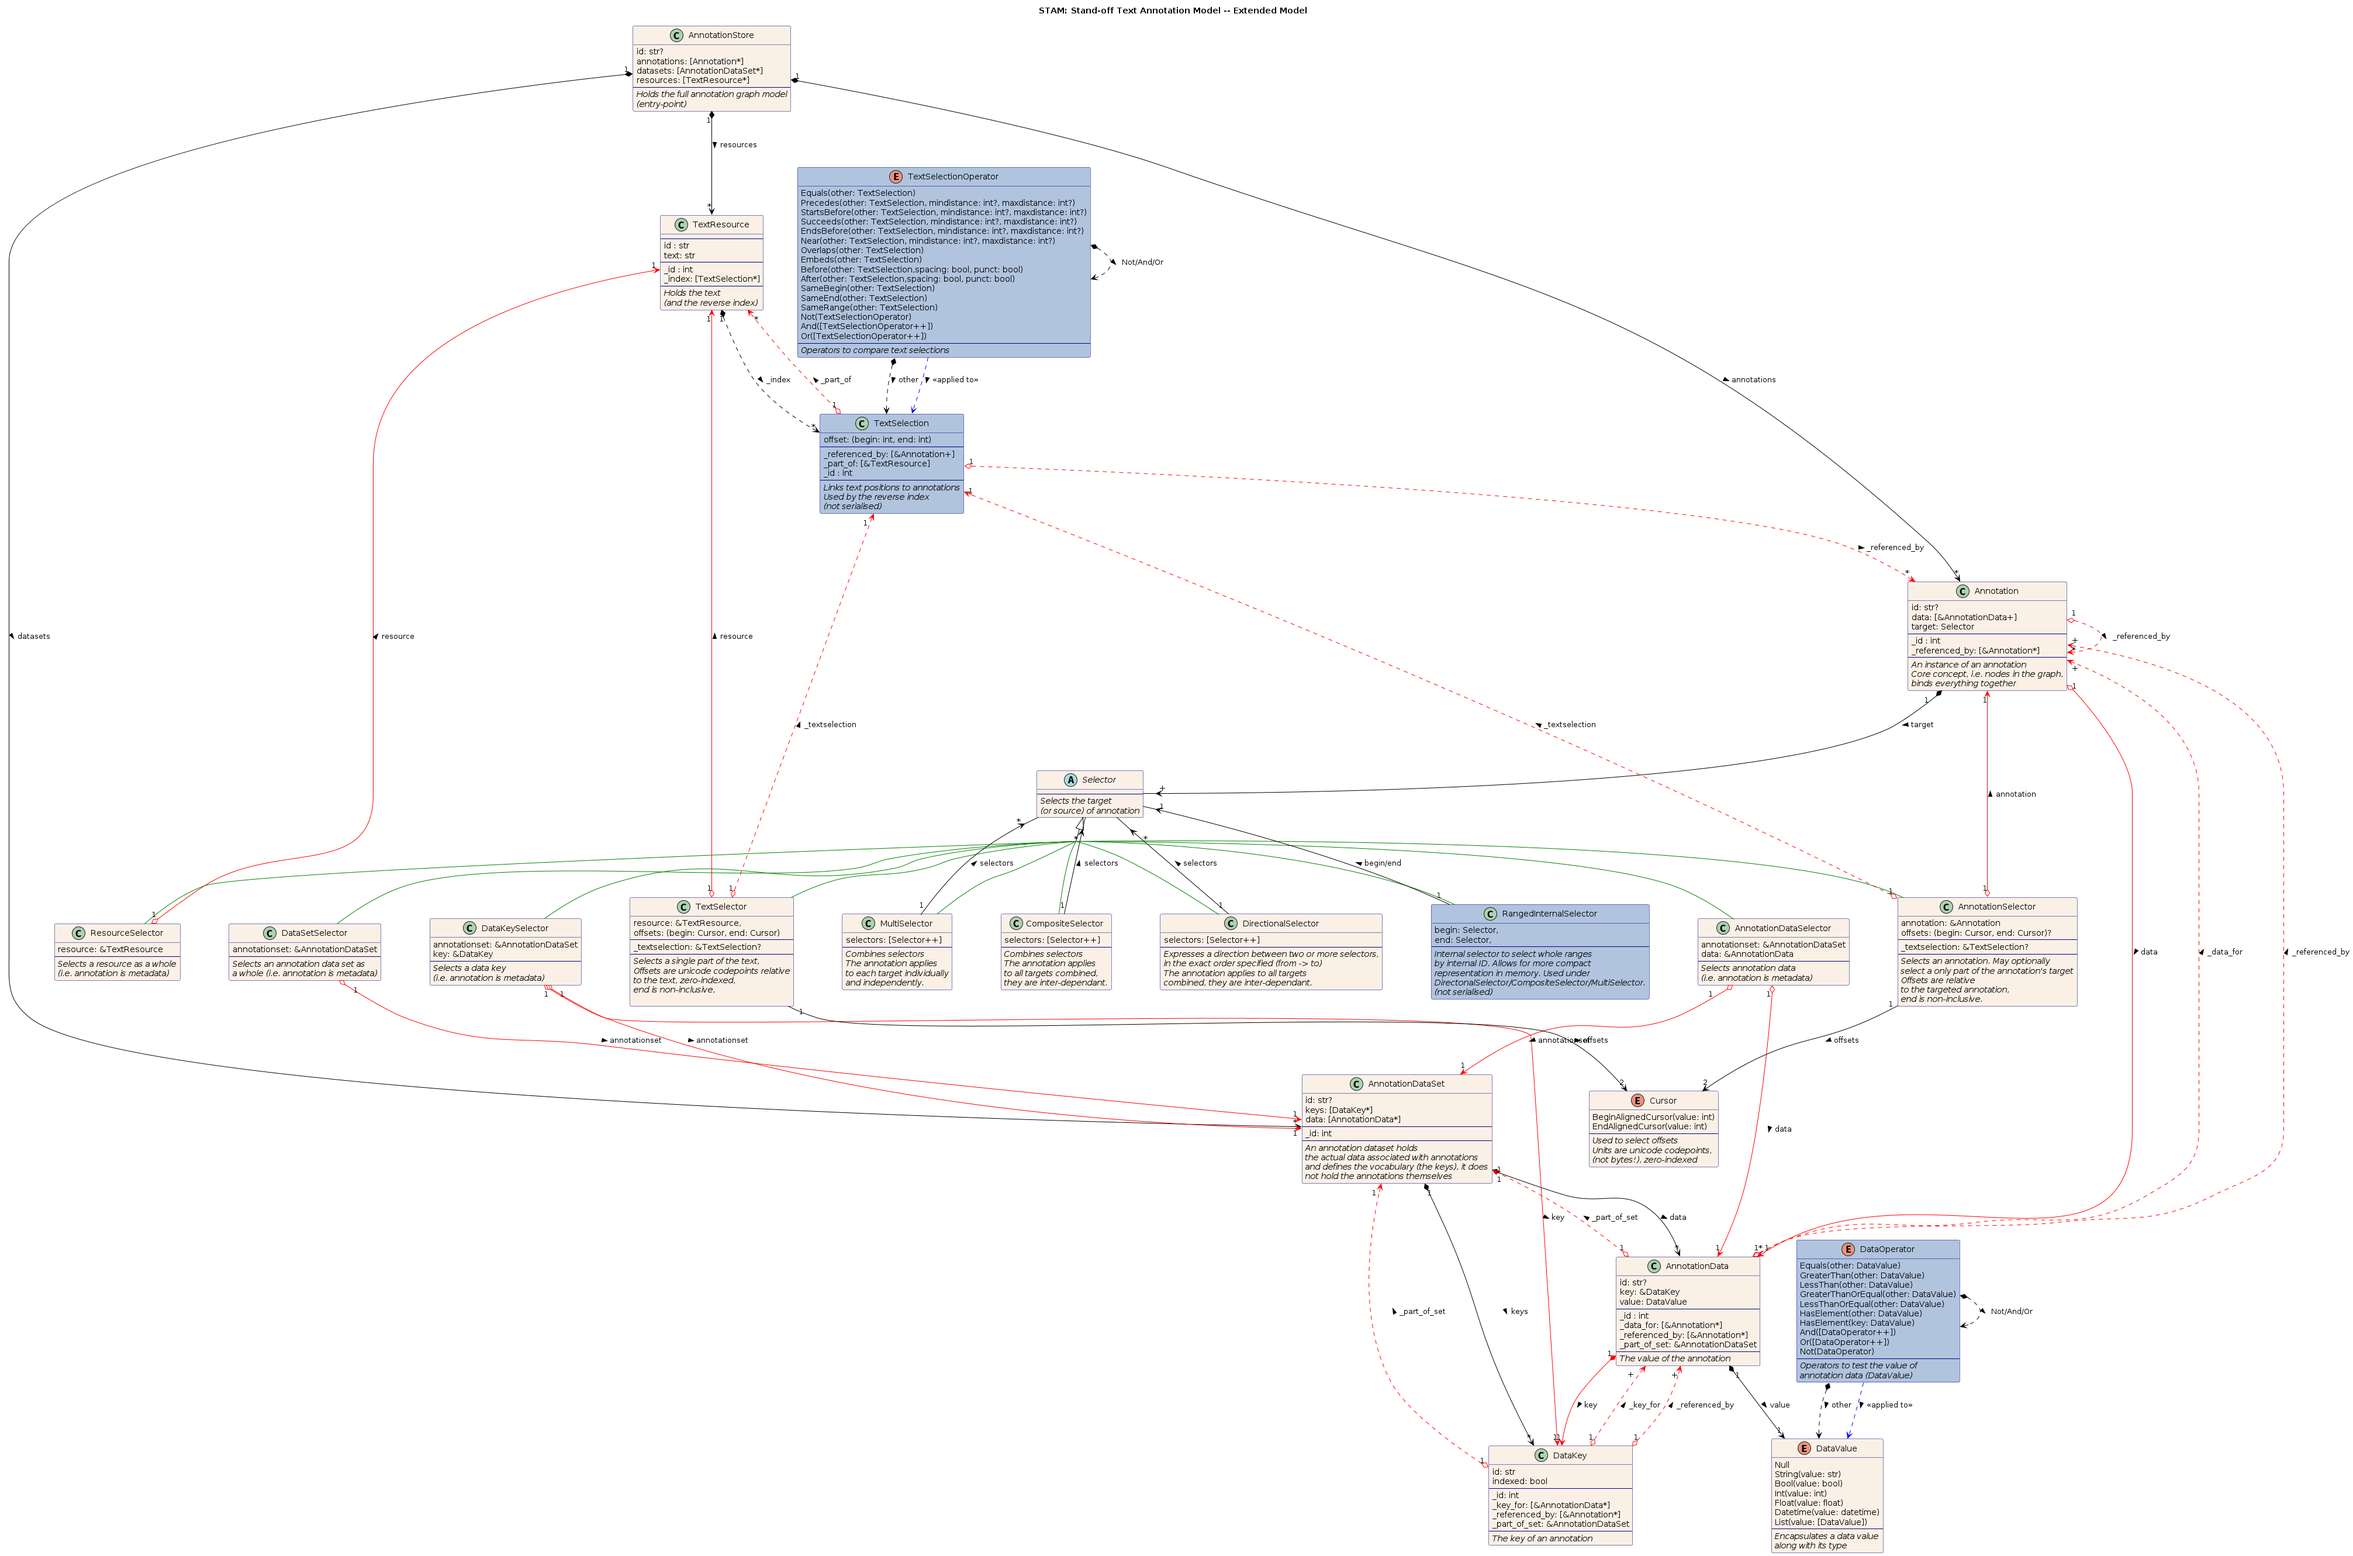
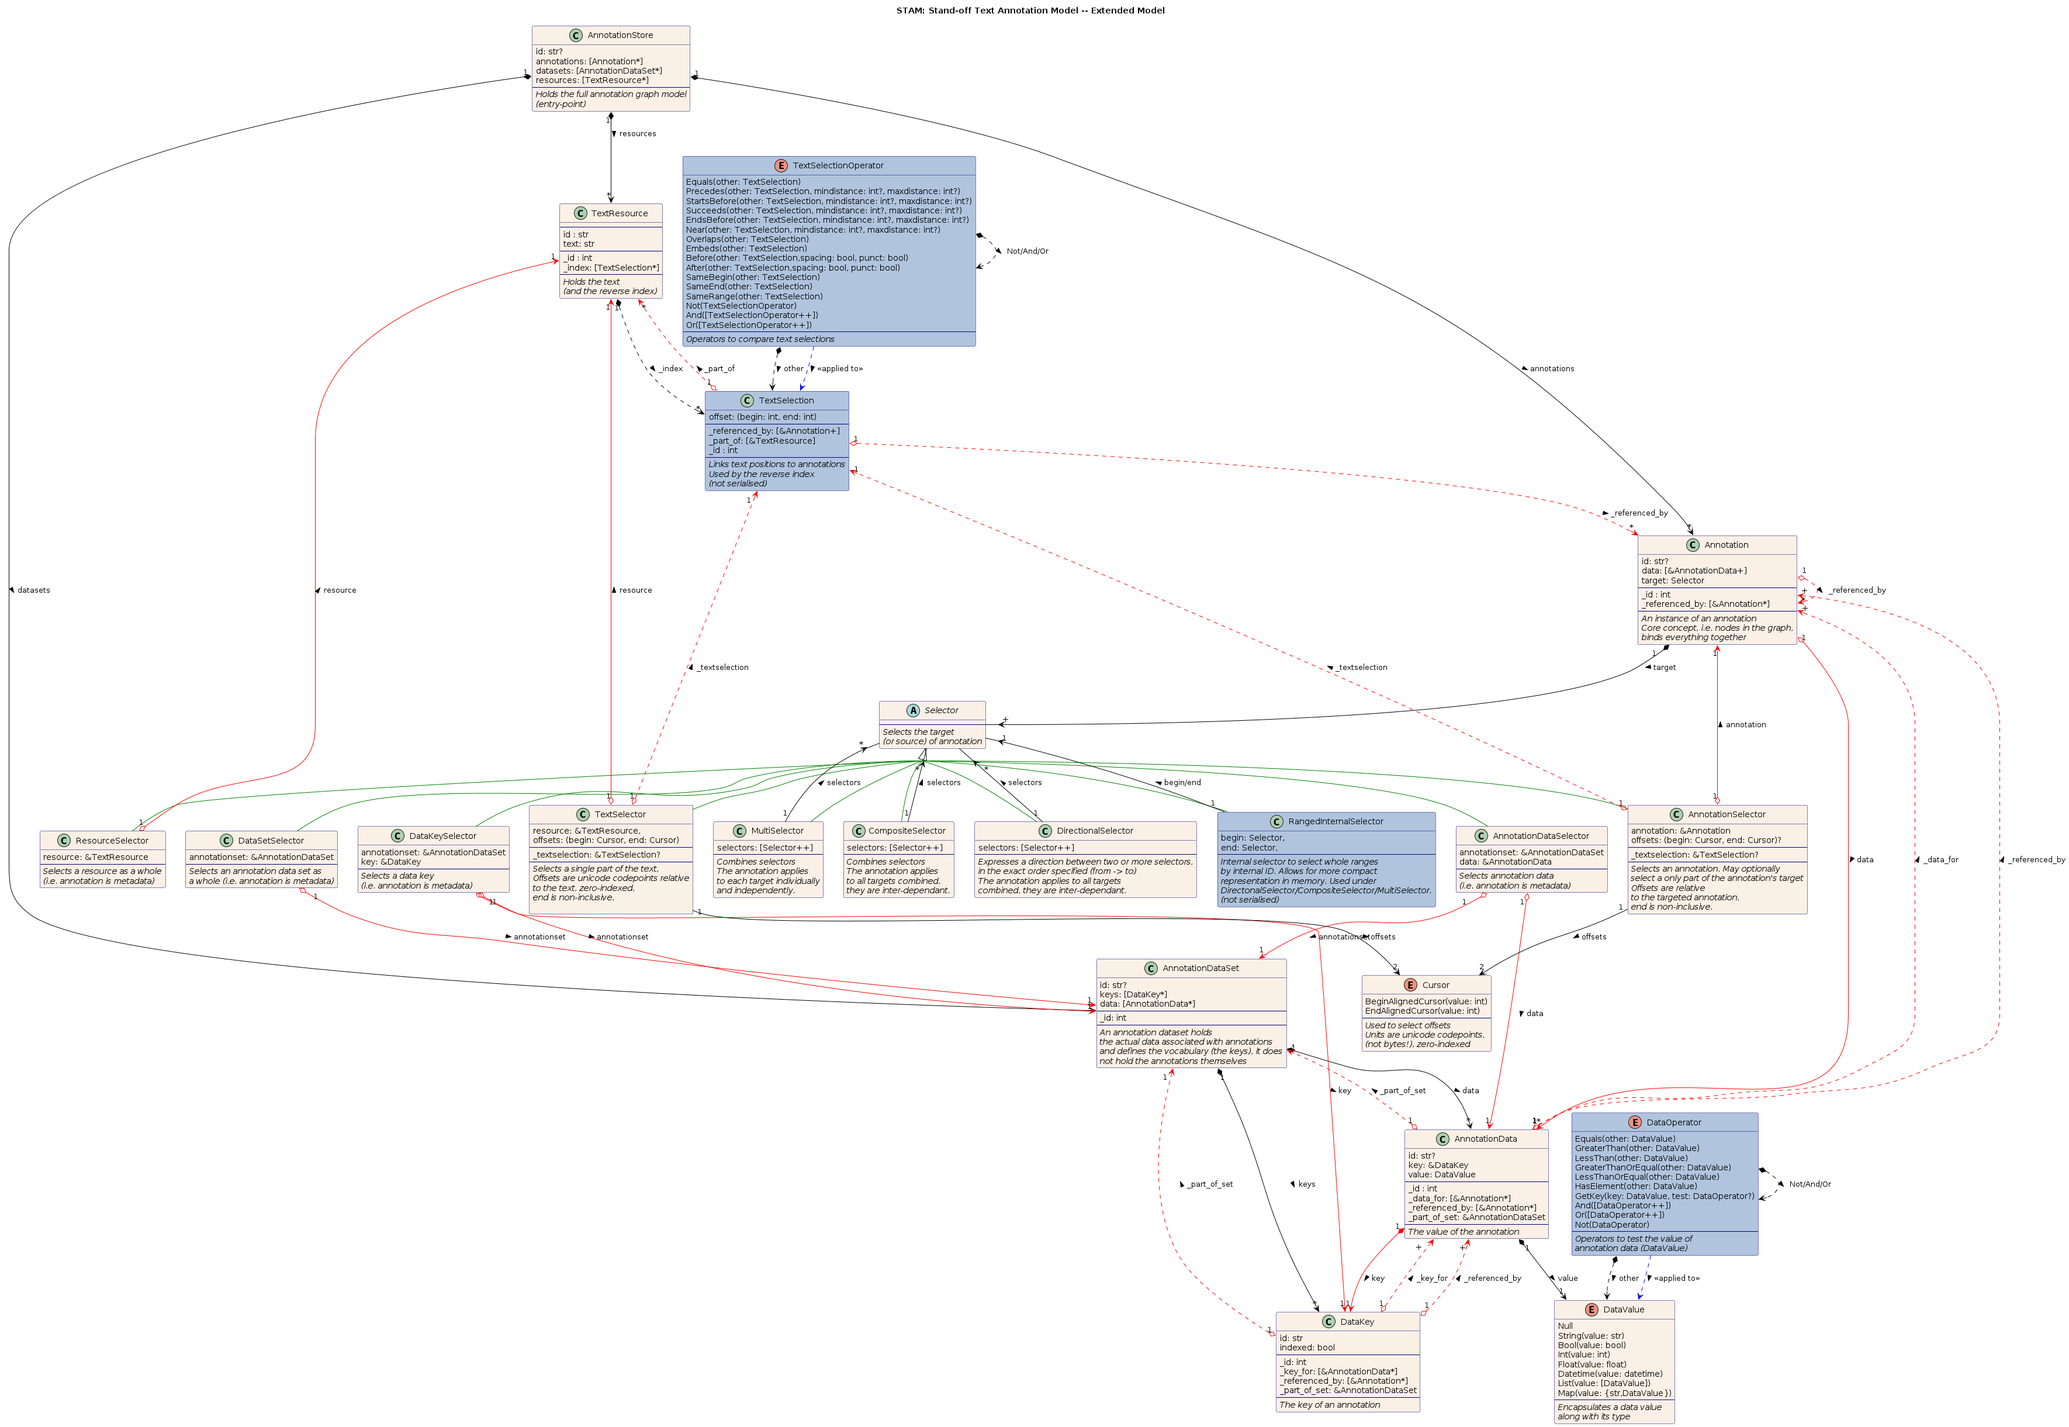
Added Map datavalue type and GetKey (.) data-operator
Ref: https://github.com/annotation/stam/issues/34

diff --git a/README.md b/README.md
@@ -377,15 +377,22 @@ It can be set to one of the following:
 * ``Datetime(value: datetime)`` - A date/time representation, compatible with ``xsd:datetime``.
 * The following are recursive collection types:
     * ``List(value: [DataValue])`` - An ordered list of multiple ``DataValue`` instances
+    * ``Map(value: {key: str, value: DataValue})`` - A key/value map, containing one or more ``DataValue`` instances. This was introduced in STAM v1.2.
 
-Note that there is no ``Map`` type to associate further nested key/value pairs. If
-you want to express nested relations, you *MUST* use `Annotation`s on
-`Annotation`s (i.e. using `AnnotationSelector`).
+Note that the ``Map`` type to associate further nested key/value pairs *SHOULD
+NOT* be used to express deeper annotations on annotations; for those you
+*MUST* use `Annotation`s on `Annotation`s (i.e. using `AnnotationSelector`)
+instead. The map type's use limited to grouping inter-dependent data together.
+Note that a map does not reuse `DataKey` instances, which implies that the keys
+in this map are not heavily optimised to the extent that the datakeys are,
+neither do they carry dataset information. A map *SHOULD* be interpreted as an
+entity as a whole and is not optimised for deeper search/indexing or for
+associating further schema information.
 
-The following overriding constraints apply for RDF:
+The following notes/constraints apply for RDF conversion:
 
-* Any String value that is a valid [IRI](https://datatracker.ietf.org/doc/html/rfc3987) *SHOULD* be interpreted as such
-  in conversion from/to RDF.
+* Whether a String value resolves to a string literal or to an [IRI](https://datatracker.ietf.org/doc/html/rfc3987) in conversion to RDF is not specified and up to the implementation. When RDF is serialised as JSON-LD then the JSON-LD context provides an excellent means of resolving this issue, provided such additional context can be supplied to the converter.
+* When you use the `Map` type. The keys in the map *SHOULD* be IRIs to enable serialisation to RDF, values that are not IRIs are passed as-is, which is useful in case of JSON-LD serialisation where the JSON-LD context determines their exact interpretation. However, they *MAY* also be rejected by implementations as they can be possibly undefined.
 
 ## Extended Data Model
 
@@ -495,7 +502,8 @@ We discern the following variants, they are to be considered *RECOMMENDED*:
  * `LessThan(other: DataValue)`
  * `GreaterThanOrEqual(other: DataValue)`
  * `LessThanOrEqual(other: DataValue)`
- * `HasElement(other: DataValue)` - Applies only when applied to annotation data with `DataValue::List()` , tests if the element is in the list.
+ * `HasElement(other: DataValue)` - When applied to annotation data with `DataValue::List()` , tests if the element is in the list.
+ * `GetKey(key: str, test: DataOperator?)` - When applied to annotation data with `DataValue::Map()` , tests if the key exists in the map and if the additional test (optional) holds. This was introduced in STAM v1.2.
  * `And([DataOperator++])` - Conjunction combining multiple tests
  * `Or([DataOperator++])` - Disjunction combining multiple tests
  * `Not(DataOperator)` - Unary operator that inverts the logic.

diff --git a/extensions/stam-query/README.md b/extensions/stam-query/README.md
@@ -191,7 +191,7 @@ The first form constrains based on a key, regardless of its value. In contexts w
 
 The second form expands this and adds an actual test on the data value. 
 
-* *operator* - The operator, may be one of `=`, `!=`,`>`,`<`, `>=`,`<=`. The operator and next value parameter are *optional*, if omitted, then all data pertaining to a datakey is selected (as shown in the previous item)
+* *operator* - The operator, may be one of `=`, `!=`,`>`,`<`, `>=`,`<=`, `HAS`, `.` . The operator and next value parameter are *optional*, if omitted, then all data pertaining to a datakey is selected (as shown in the previous item)
 * *value* - The data value to test against. Numeric values (integers, floats) *MUST NOT* be quoted for them to be recognised as such. Multiple values may be specified and separated by a pipe character. If you want a literal pipe character in a value, you *MUST* escape it with a backslash.
 
 **Example:** *select all annotations that have the exact text "fly" and which are nouns*
